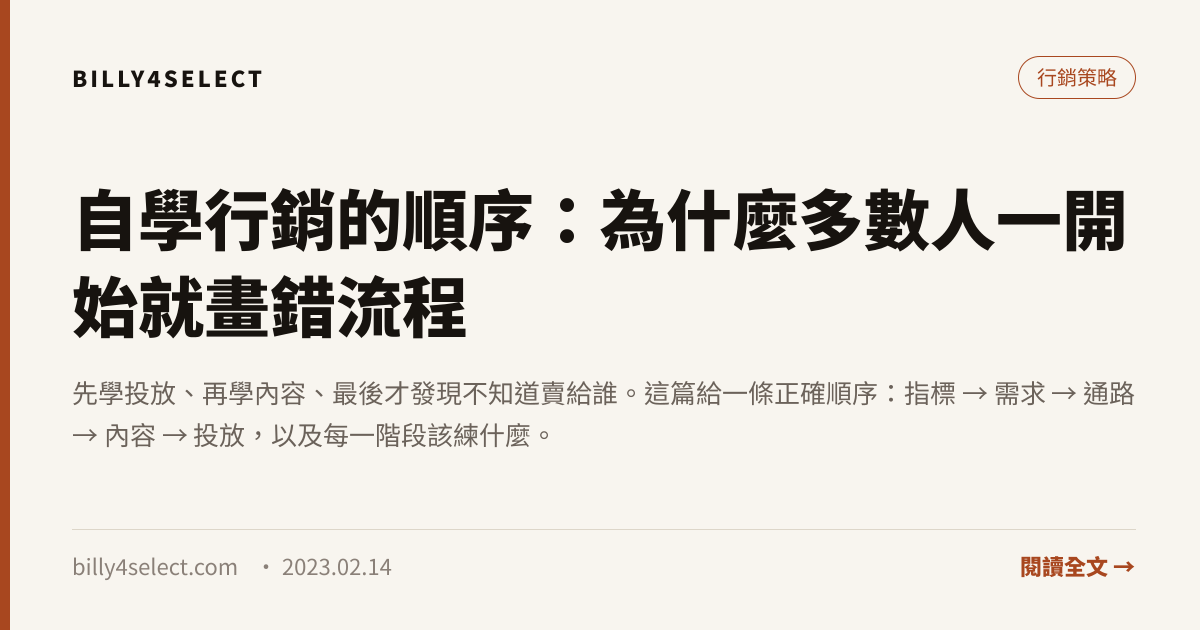
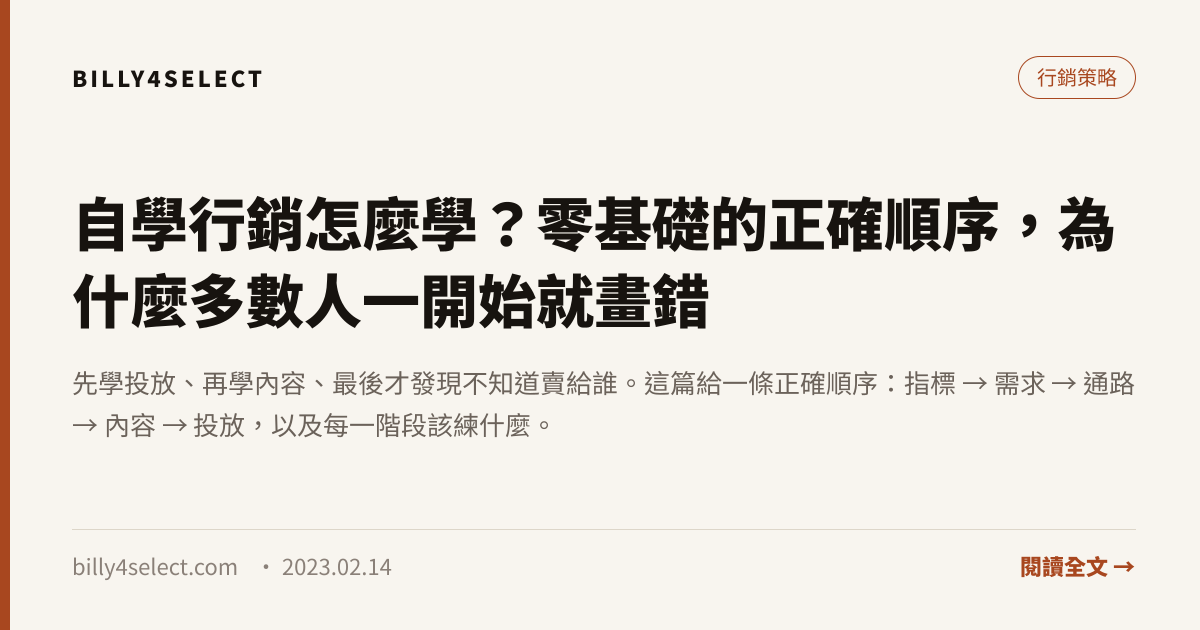
SEO：第二批 12 篇文章標題依 Google 前三名實測改寫

Changed region(s): [[0.0617, 0.3016, 0.9558, 0.5429], [0.0617, 0.573, 0.9558, 0.7238]]

diff --git a/src/content/blog/notebooklm-workplace-research.md b/src/content/blog/notebooklm-workplace-research.md
@@ -1,5 +1,5 @@
 ---
-title: 用 NotebookLM 做職場研究：怎麼把一堆資料拆懂，再變成自己的判斷？
+title: "NotebookLM 職場應用：做研究、讀財報，把資料拆成自己的判斷"
 description: >-
   收到一堆產業報告或客戶訪談，整理完卻還是下不了判斷？分享我用 NotebookLM 做職場研究的實際順序：先問架構、逐點問為什麼，最後怎麼脫離 AI 生硬文字，整理出自己的觀點。
 publishedDate: 2026-04-24T00:00:00Z

diff --git a/src/content/blog/digital-marketing-basics.md b/src/content/blog/digital-marketing-basics.md
@@ -1,6 +1,6 @@
 ---
 
-title: "數位行銷是什麼？從消費者決策理解需求、通路與訊息"
+title: "數位行銷是什麼？入門先從消費者決策理解需求、通路與訊息"
 description: "數位行銷不只是 SEO、廣告與社群工具。理解消費者如何發現需求、搜尋資訊、比較選項與做出購買決定，才能判斷該選擇什麼通路，以及如何分配行銷資源。"
 publishedDate: 2023-03-14T01:00:00Z
 updatedDate: 2026-11-26T09:00:00Z

diff --git a/src/content/blog/ai-meeting-notes-workflow-summary.md b/src/content/blog/ai-meeting-notes-workflow-summary.md
@@ -1,5 +1,5 @@
 ---
-title: AI 整理會議紀錄：從冗長逐字稿，變成決策與行動清單的做法
+title: "AI 整理會議紀錄怎麼做？逐字稿轉摘要與行動清單 Prompt 範例（2026）"
 description: >-
   開會兩小時、整理紀錄一小時，最後還沒人看？分享用 AI 整理會議逐字稿的實用格式：跳過流水帳，只抓「已定案決策、未解爭點、待辦負責人與期限」四件事。
 publishedDate: 2026-04-10T11:22:05Z

diff --git a/src/content/blog/free-seo-tools.md b/src/content/blog/free-seo-tools.md
@@ -1,5 +1,5 @@
 ---
-title: 免費 SEO 工具怎麼選？其實先把 GSC、GA4 跟 Google 搜尋用熟就夠了
+title: "免費 SEO 工具推薦：GSC、GA4 先用熟就夠，新手怎麼選（2026）"
 description: >-
   網路上免費 SEO 工具清單一長串，但多數個人站長跟中小品牌根本用不到那麼多。分享我平常真正會打開的免費工具組合：GSC 看來源、GA4 看反應，外加搜尋框找題目。
 publishedDate: 2023-03-08T01:00:00Z

diff --git a/src/content/blog/cac-rising-5-checks.md b/src/content/blog/cac-rising-5-checks.md
@@ -1,5 +1,5 @@
 ---
-title: CAC 一直上升怎麼辦？先換素材切新受眾，再逐段檢查這五件事
+title: "CAC 獲客成本一直上升怎麼辦？先換素材切新受眾，再查這 5 件事"
 description: >-
   廣告越投越貴、獲客成本（CAC）一直往上飄怎麼辦？分享我實務上第一個會動的調整順序：先換素材與切新受眾，再往下排查轉換率、GA 跳出率與計算口徑。
 publishedDate: 2026-04-09T01:00:00Z

diff --git a/src/content/blog/seo-self-study-guide.md b/src/content/blog/seo-self-study-guide.md
@@ -1,5 +1,5 @@
 ---
-title: "SEO 自學怎麼開始？從搜尋原理到內容實作的學習路線"
+title: "SEO 自學怎麼開始？新手學習路線：從搜尋原理到內容實作（2026）"
 description: SEO 資訊很多，初學者容易先陷入工具與技巧。這篇依照搜尋原理、需求判斷、內容規劃、網站檢查與成效觀察，整理一條可調整的自學路線。
 publishedDate: 2023-04-20T01:00:00Z
 updatedDate: 2026-11-26T09:00:00Z

diff --git a/src/content/blog/ai-finance-data-security-5-bottom-lines.md b/src/content/blog/ai-finance-data-security-5-bottom-lines.md
@@ -1,5 +1,5 @@
 ---
-title: 財務資料能不能交給 AI？按下送出前先確認這五條資安底線
+title: "財務資料能給 ChatGPT／AI 嗎？公司機密與資安的 5 條底線"
 description: >-
   拿 AI 整理財報、對帳或寫預算摘要確實很快，但未公開數字一貼出去可能直接踩到公司資安與法律紅線。整理上班族處理敏感數據前必守的五條底線與安全替代做法。
 publishedDate: 2026-04-10T10:45:12Z

diff --git a/src/content/blog/learn-marketing-roadmap.md b/src/content/blog/learn-marketing-roadmap.md
@@ -1,5 +1,5 @@
 ---
-title: "自學行銷的順序：為什麼多數人一開始就畫錯流程"
+title: "自學行銷怎麼學？零基礎的正確順序，為什麼多數人一開始就畫錯"
 description: 先學投放、再學內容、最後才發現不知道賣給誰。這篇給一條正確順序：指標 → 需求 → 通路 → 內容 → 投放，以及每一階段該練什麼。
 publishedDate: 2023-02-14T01:00:00Z
 updatedDate: 2026-11-26T02:00:00Z

diff --git a/src/content/blog/search-intent-guide.md b/src/content/blog/search-intent-guide.md
@@ -1,5 +1,5 @@
 ---
-title: "搜尋意圖怎麼判斷？先看搜尋者要完成什麼事"
+title: "搜尋意圖是什麼？4 種類型與判斷方法，先看搜尋者要完成什麼事"
 description: 搜尋意圖不是把關鍵字硬分成四類，而是理解搜尋者此刻要解決的問題。本文說明如何觀察搜尋結果、辨認混合意圖，以及決定頁面形式。
 publishedDate: 2023-04-11T01:00:00Z
 updatedDate: 2026-11-26T09:00:00Z

diff --git a/src/content/blog/ad-fatigue-frequency-creative-rotation.md b/src/content/blog/ad-fatigue-frequency-creative-rotation.md
@@ -1,5 +1,5 @@
 ---
-title: 廣告疲勞怎麼判斷？看懂頻次、受眾飽和與換素材的時機
+title: "廣告疲勞怎麼辦？頻次多高要換素材？FB／Meta 受眾飽和判斷"
 description: >-
   原本很會賣的廣告，跑了兩三週突然越買越貴？這多半是廣告疲勞。這篇拆解怎麼從頻次、CTR 與獲客成本判斷受眾是否打完，以及換素材輪替的實際做法。
 publishedDate: 2026-04-18T01:00:00Z

diff --git a/src/content/blog/website-speed-seo-checks.md b/src/content/blog/website-speed-seo-checks.md
@@ -1,5 +1,5 @@
 ---
-title: 網站速度怎麼檢查？用 Core Web Vitals 抓出真正影響體驗的卡點
+title: "網站速度怎麼檢查？PageSpeed Insights 與 Core Web Vitals 看卡點"
 description: >-
   網頁開太慢會讓手機讀者直接關掉，連帶拖累 SEO 表現。這篇用白話拆解 Core Web Vitals 三個核心指標，教你用免費工具快速抓出肥圖跟拖慢載入的元兇。
 publishedDate: 2026-05-04T01:00:00Z

diff --git a/src/content/blog/seo-writing-why-no-traffic.md b/src/content/blog/seo-writing-why-no-traffic.md
@@ -1,5 +1,5 @@
 ---
-title: "SEO 文章有寫卻沒流量？先檢查這五個環節"
+title: "SEO 文章沒流量怎麼辦？有寫卻沒排名，先檢查這 5 個環節"
 description: 文章沒有搜尋流量，不一定是文筆或字數問題。從收錄、搜尋需求、內容差異、網站結構與觀察時間，找出下一步該檢查的地方。
 publishedDate: 2023-03-21T01:00:00Z
 updatedDate: 2026-11-26T09:00:00Z
